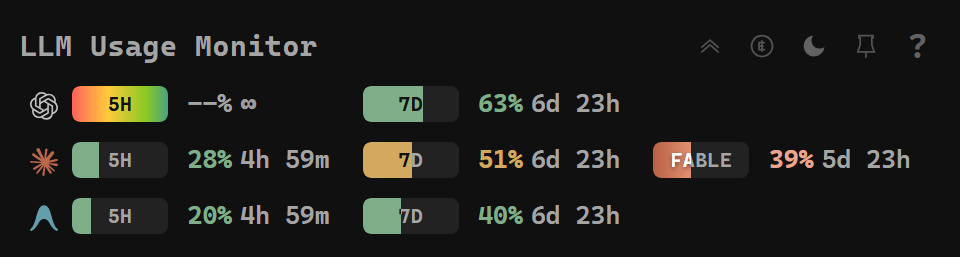
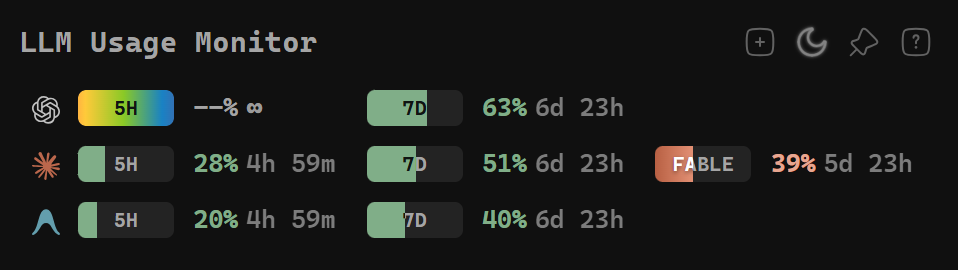
docs: README 스크린샷 및 UI 조작 안내를 최신 버전으로 갱신
v0.9.8 UI(헤더 squircle 아이콘, 로컬 토큰 기본 펼침)에 맞춰 스크린샷을 재생성하고, README의 조작 안내 및 스크린샷 캡처 스크립트를 현행화한다.

Agent: Google Gemini 3.8 Flash (High)

diff --git a/README.md b/README.md
@@ -141,14 +141,14 @@ claude --safe-mode --ax-screen-reader --restricted --strict-mcp-config --tools "
 
 ## 단축키 및 조작
 
-단축키는 앱 창에 포커스가 있을 때 동작합니다. 하단 왼쪽의 <kbd>?</kbd> 버튼을 누르면 같은 내용을 앱 안에서 볼 수 있습니다.
+단축키는 앱 창에 포커스가 있을 때 동작합니다. 상단 우측의 <kbd>?</kbd> 버튼을 누르면 같은 내용을 앱 안에서 볼 수 있습니다.
 
-| 기능 | Windows | macOS | 하단 버튼 |
+| 기능 | Windows | macOS | 상단 버튼 |
 | --- | --- | --- | --- |
-| 간이 모드 전환 | <kbd>Ctrl</kbd>+<kbd>Shift</kbd>+<kbd>C</kbd> | <kbd>Cmd</kbd>+<kbd>Shift</kbd>+<kbd>C</kbd> | 위/아래 꺾쇠 (접기 ⌃ / 펼치기 ⌄) |
-| 로컬 토큰 표시 전환 | <kbd>Ctrl</kbd>+<kbd>Shift</kbd>+<kbd>T</kbd> | <kbd>Cmd</kbd>+<kbd>Shift</kbd>+<kbd>T</kbd> | 코인 아이콘 (켜지면 채워짐) |
+| 간이 모드 전환 | <kbd>Ctrl</kbd>+<kbd>Shift</kbd>+<kbd>C</kbd> | <kbd>Cmd</kbd>+<kbd>Shift</kbd>+<kbd>C</kbd> | 사각형 (접기 − / 펼치기 +) |
 | 다크 / 라이트 테마 전환 | <kbd>Ctrl</kbd>+<kbd>Shift</kbd>+<kbd>L</kbd> | <kbd>Cmd</kbd>+<kbd>Shift</kbd>+<kbd>L</kbd> | 달(다크) / 해(라이트) 아이콘 |
 | 항상 위(핀) 고정 | <kbd>Ctrl</kbd>+<kbd>Shift</kbd>+<kbd>P</kbd> | <kbd>Cmd</kbd>+<kbd>Shift</kbd>+<kbd>P</kbd> | 핀 아이콘 (고정되면 채워짐) |
+| 단축키 및 정보 보기 | - | - | <kbd>?</kbd> 아이콘 (팝오버 열림) |
 | 팝오버 닫기 | <kbd>Esc</kbd> | <kbd>Esc</kbd> | 핀 해제 상태에서 창 외부 클릭 |
 
 마우스 조작과 트레이 메뉴:
